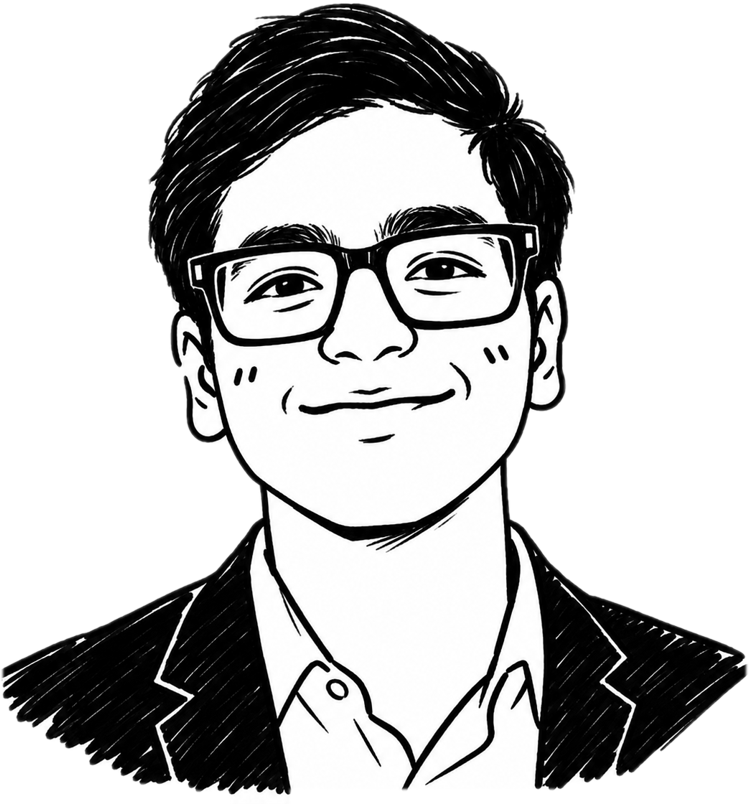
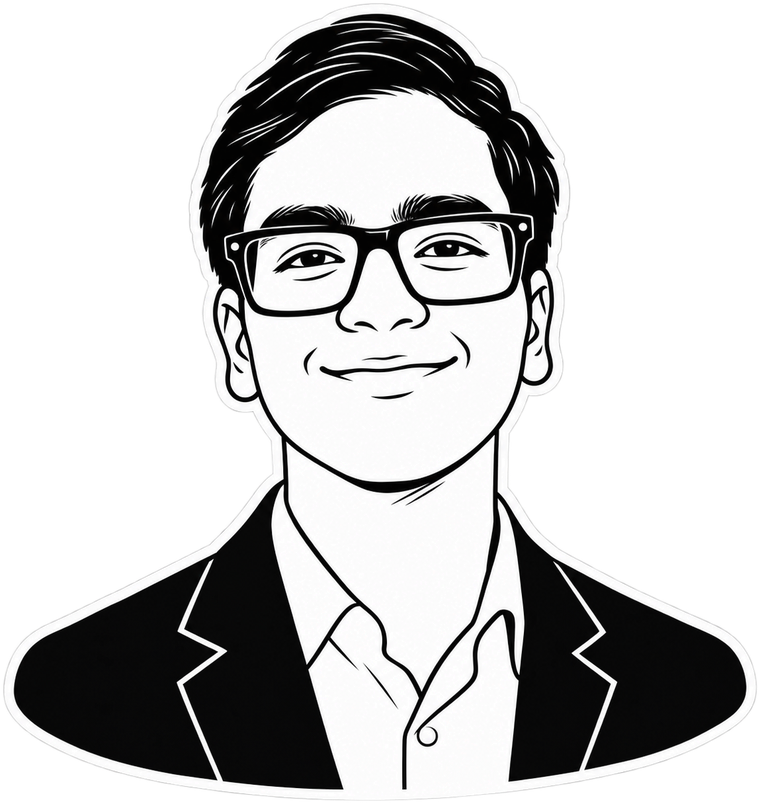
Replace hero portrait with the new sticker illustration
Cleaned stray edge specks, cropped and sized to 760x804. Dropped the dark-mode white outline filter since the new art has its own.

Claude-Session: https://claude.ai/code/session_01GsF7f9vNtgn6PWBJAn2Lad

Changed region(s): [[0.0, 0.0, 1.0, 0.995]]

diff --git a/index.html b/index.html
@@ -256,8 +256,6 @@ body.leaving #app,body.leaving .frame:has(> #contact){opacity:0;transform:transl
 .about-b.holding .lbl .k{opacity:1;transform:none;color:#0a0a0a}
 .pwrap{position:relative;align-self:end;justify-self:center;width:100%;max-width:360px;--look:0;--lookY:0;perspective:900px}
 .pwrap img{width:100%;height:auto;transform-origin:50% 90%;will-change:transform;user-select:none;-webkit-user-drag:none}
-@media (prefers-color-scheme: dark){:root:not([data-theme="light"]) .pwrap img{filter:drop-shadow(1.5px 0 0 #fff) drop-shadow(-1.5px 0 0 #fff) drop-shadow(0 -1.5px 0 #fff)}}
-:root[data-theme="dark"] .pwrap img{filter:drop-shadow(1.5px 0 0 #fff) drop-shadow(-1.5px 0 0 #fff) drop-shadow(0 -1.5px 0 #fff)}
 .acc{display:grid;gap:4px;align-self:end}
 .acc button{width:100%;display:block;cursor:default;align-items:center;gap:12px;padding:14px 0;text-align:left;font-size:clamp(17px,1.6vw,21px);font-weight:540;letter-spacing:-.025em;color:var(--muted-fg);transition:color .45s var(--ease-out),transform .6s var(--ease-out)}
 .acc .on button{transform:translateX(4px)}
@@ -833,7 +831,7 @@ html.cur-on :is(input,textarea,select,[contenteditable]){cursor:text!important}
             <a class="metal" href="#work"><span class="rim"></span><span class="core"></span><span class="sheen"></span>See my work <i data-ic="ne"></i></a>
           </div>
         </div>
-        <div class="pwrap" id="pwrap"><img src="portrait.png" alt="Illustrated portrait of Rohit" draggable="false" width="749" height="804"></div>
+        <div class="pwrap" id="pwrap"><img src="portrait.png" alt="Illustrated portrait of Rohit" draggable="false" width="760" height="804"></div>
         <div class="acc" id="acc"></div>
       </div>
     </section>

diff --git a/src/head.html b/src/head.html
@@ -256,8 +256,6 @@ body.leaving #app,body.leaving .frame:has(> #contact){opacity:0;transform:transl
 .about-b.holding .lbl .k{opacity:1;transform:none;color:#0a0a0a}
 .pwrap{position:relative;align-self:end;justify-self:center;width:100%;max-width:360px;--look:0;--lookY:0;perspective:900px}
 .pwrap img{width:100%;height:auto;transform-origin:50% 90%;will-change:transform;user-select:none;-webkit-user-drag:none}
-@media (prefers-color-scheme: dark){:root:not([data-theme="light"]) .pwrap img{filter:drop-shadow(1.5px 0 0 #fff) drop-shadow(-1.5px 0 0 #fff) drop-shadow(0 -1.5px 0 #fff)}}
-:root[data-theme="dark"] .pwrap img{filter:drop-shadow(1.5px 0 0 #fff) drop-shadow(-1.5px 0 0 #fff) drop-shadow(0 -1.5px 0 #fff)}
 .acc{display:grid;gap:4px;align-self:end}
 .acc button{width:100%;display:block;cursor:default;align-items:center;gap:12px;padding:14px 0;text-align:left;font-size:clamp(17px,1.6vw,21px);font-weight:540;letter-spacing:-.025em;color:var(--muted-fg);transition:color .45s var(--ease-out),transform .6s var(--ease-out)}
 .acc .on button{transform:translateX(4px)}

diff --git a/src/body.html b/src/body.html
@@ -50,7 +50,7 @@
             <a class="metal" href="#work"><span class="rim"></span><span class="core"></span><span class="sheen"></span>See my work <i data-ic="ne"></i></a>
           </div>
         </div>
-        <div class="pwrap" id="pwrap"><img src="portrait.png" alt="Illustrated portrait of Rohit" draggable="false" width="749" height="804"></div>
+        <div class="pwrap" id="pwrap"><img src="portrait.png" alt="Illustrated portrait of Rohit" draggable="false" width="760" height="804"></div>
         <div class="acc" id="acc"></div>
       </div>
     </section>
